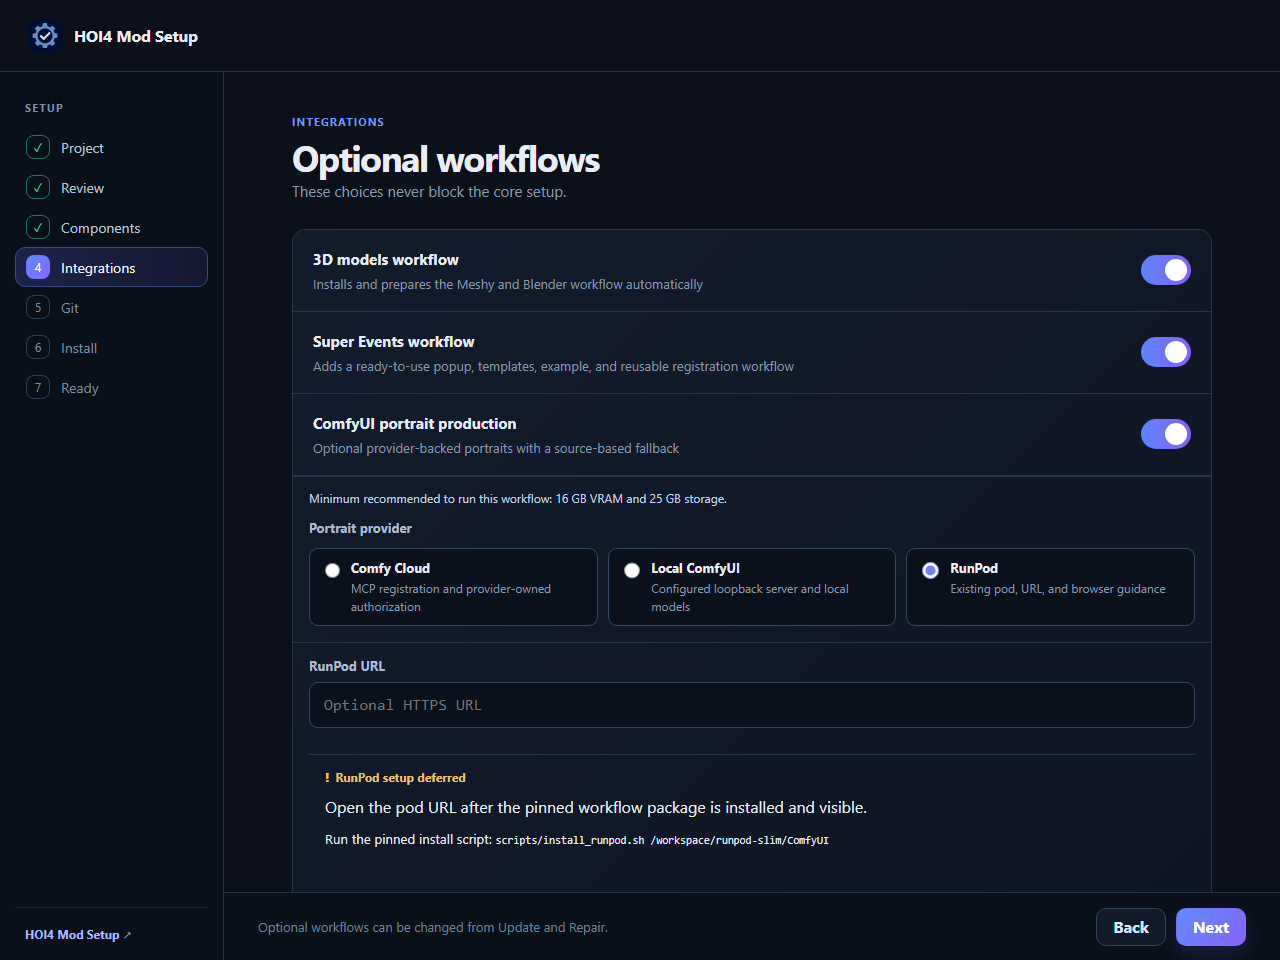
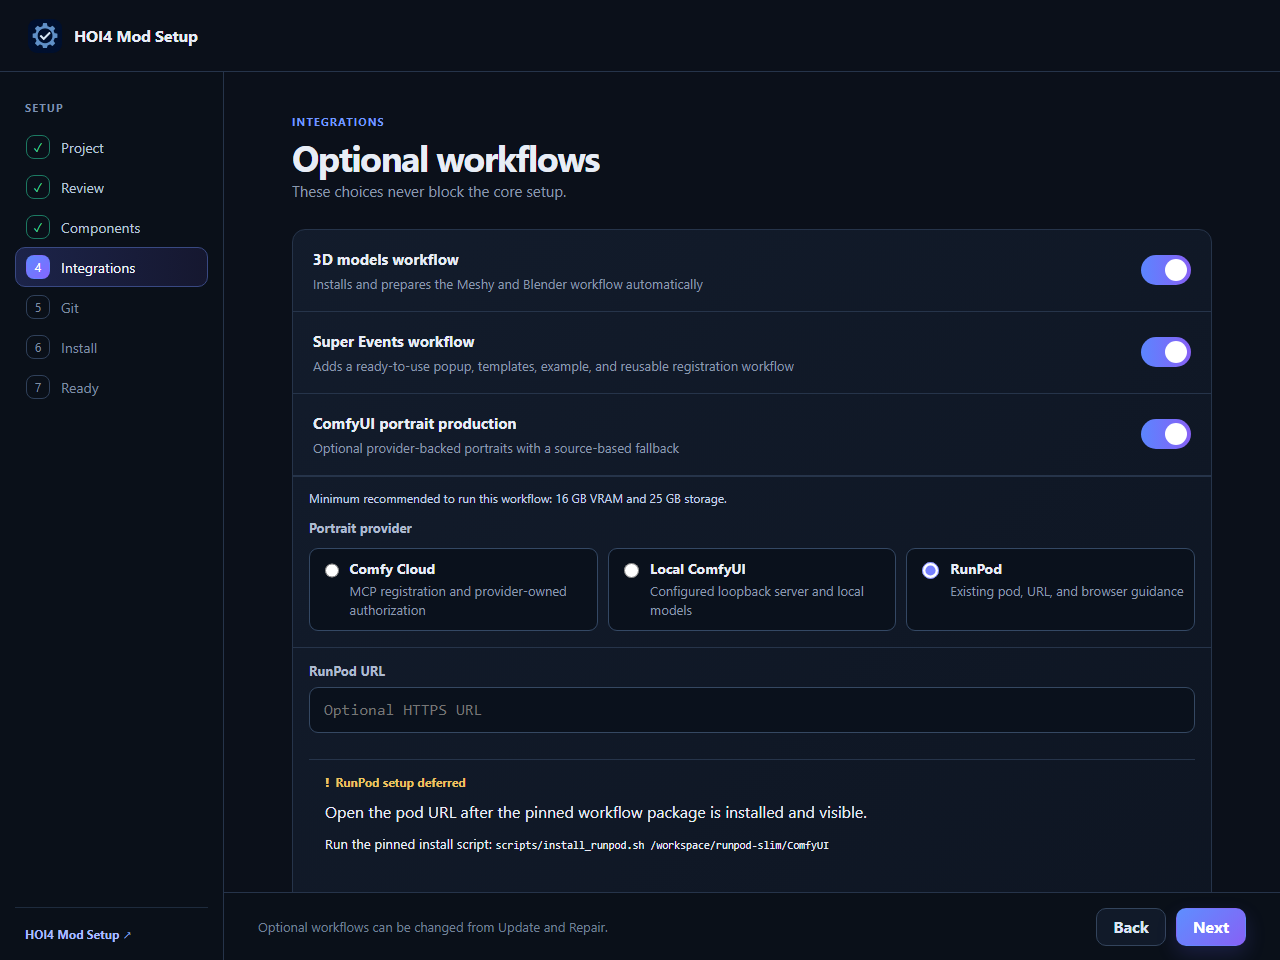
ui: larger list text, consistent MCP step width, no "0 files" for user-installed components

diff --git a/src/styles.css b/src/styles.css
@@ -90,7 +90,7 @@ button:focus-visible, input:focus-visible, textarea:focus-visible, select:focus-
 .choice-grid, .two-column, .action-grid, .recovery-grid, .diff-grid { display: grid; gap: 16px; }
 .choice-grid, .two-column { grid-template-columns: repeat(2, minmax(0, 1fr)); }
 .choice-grid, .two-column { width: 100%; max-width: 920px; margin-inline: auto; }
-.stack.narrow.mcp-review { max-width: 720px; }
+/* The MCP step uses the same column width as the other steps. */
 .diff-grid { grid-template-columns: repeat(3, minmax(0, 1fr)); }
 .action-grid { grid-template-columns: repeat(2, minmax(0, 1fr)); }
 .recovery-grid { grid-template-columns: repeat(3, minmax(0, 1fr)); }
@@ -178,9 +178,9 @@ button:focus-visible, input:focus-visible, textarea:focus-visible, select:focus-
 .list-row > div, .server-row > span:nth-child(2), .component-row > span:nth-child(2), .radio-row > span:nth-child(2), .finding-row > span:nth-child(2), .change-row > span:nth-child(2) { min-width: 0; flex: 1 1 12rem; display: grid; gap: 4px; overflow-wrap: anywhere; }
 .toggle-row > .toggle-copy { min-width: 0; display: grid; flex: 1 1 auto; gap: 6px; overflow-wrap: anywhere; }
 .toggle-row > span:last-child { margin-left: auto; flex: 0 0 auto; }
-.list-row strong, .server-row strong, .component-row strong, .radio-row strong, .finding-row strong, .change-row strong, .check-row strong { font-size: 13px; }
+.list-row strong, .server-row strong, .component-row strong, .radio-row strong, .finding-row strong, .change-row strong, .check-row strong { font-size: 14px; }
 .toggle-row strong { font-size: 15px; }
-.list-row span, .server-row small, .component-row small, .radio-row small, .finding-row small, .change-row small { color: var(--muted); font-size: 12px; }
+.list-row span, .server-row small, .component-row small, .radio-row small, .finding-row small, .change-row small { color: var(--muted); font-size: 13px; line-height: 1.45; }
 .toggle-row small { color: var(--muted); font-size: 13px; }
 .list-row > .status, .server-row > .status, .component-row > .size, .change-row > .size { margin-left: auto; }
 .mono { font-family: ui-monospace, SFMono-Regular, Consolas, monospace; }
@@ -194,7 +194,7 @@ button:focus-visible, input:focus-visible, textarea:focus-visible, select:focus-
 .status-muted { color: #99a7ba; }
 .details { color: #9db5ff; font-size: 12px; }
 details { border-top: 1px solid var(--line); }
-summary { padding: 13px 16px; color: #a3b0c3; font-size: 12px; list-style-position: inside; }
+summary { padding: 13px 16px; color: #a3b0c3; font-size: 13px; list-style-position: inside; }
 details p { margin: 0; padding: 0 16px 16px; line-height: 1.55; }
 .panel > details[open] > summary { margin-bottom: 10px; }
 .panel > details > .field { min-width: 0; margin: 0; padding: 0 16px 16px; }
@@ -305,8 +305,8 @@ details p { margin: 0; padding: 0 16px 16px; line-height: 1.55; }
 .coding-environment-option input { width: 17px; height: 17px; margin: 1px 0 0; accent-color: #7680ff; }
 .coding-environment-copy { min-width: 0; display: grid; gap: 5px; }
 .coding-environment-copy strong, .coding-environment-copy small { display: block; min-width: 0; overflow-wrap: anywhere; }
-.coding-environment-copy strong { color: #e6edf8; font-size: 13px; line-height: 1.35; }
-.coding-environment-copy small { color: var(--muted); font-size: 12px; line-height: 1.5; }
+.coding-environment-copy strong { color: #e6edf8; font-size: 14px; line-height: 1.35; }
+.coding-environment-copy small { color: var(--muted); font-size: 13px; line-height: 1.5; }
 .coding-environment-unavailable { margin-top: 12px; }
 .coding-environment-unavailable ul { margin: 8px 0 0; padding-left: 18px; display: grid; gap: 6px; font-size: 12px; line-height: 1.5; }
 .coding-environment-unavailable li strong { color: #e6edf8; }

diff --git a/src/App.tsx b/src/App.tsx
@@ -3121,6 +3121,8 @@ function formatFindingDetails(raw: string): string {
 
 function formatManifestSize(component: ManifestComponentPreview): string {
   const bytes = component.expected_files.reduce((total, file) => total + (file.size ?? 0), 0);
+  // A component without project files (an MCP server or tool installed for the user) is not "0 files".
+  if (component.expected_files.length === 0) return "Installed for your user";
   const size = bytes >= 1024 * 1024 ? `${(bytes / (1024 * 1024)).toFixed(1)} MB` : bytes >= 1024 ? `${Math.round(bytes / 1024)} KB` : bytes ? `${bytes} B` : "—";
   return `${component.expected_files.length === 1 ? "1 file" : `${component.expected_files.length} files`} · ${size}`;
 }

diff --git a/CHANGELOG.md b/CHANGELOG.md
@@ -7,6 +7,7 @@ HOI4 Mod Setup follows semantic versioning.
 - Redesign the Image generation step: one switch card for hoi4-imagegen with what it does at a glance, and the other backends as labelled tiles (with what each needs, such as an API key or a server address) and their limits behind "Use another backend". The leftover "Image providers loaded." line is gone.
 - Explain an "Access is denied" or "file in use" stop on the recovery screen: close the coding client or hoi4-imagegen window that holds the file, then continue. Undo changes alone did not help while that program stayed open.
 - Fix the step heading reserving a large empty gap above the content in narrow windows.
+- Make list and option text easier to read (13 to 14 px instead of 12 to 13 px), give the MCP step the same width as the other steps, and show a component installed for your user (such as the HOI4 Agent Tools server) as "Installed for your user" instead of "0 files".
 - Fix the Python hint on the recovery screen never showing for npm errors (a broken pattern in the check).
 - Fix an Update or repair that stopped with "Access is denied" when the previous hoi4-imagegen version could not be deleted because its program was still running (for example the sign-in the Ready screen started). Setup now keeps that version and reports it, and the next Update or Repair removes it.
 - Fix an intermittent Windows failure of Update and repair with "Access is denied (os error 5)" while the hoi4-imagegen files were checked. A virus scanner or indexer that had just seen a file could refuse a read-only open for a moment, so Setup now retries opening an existing file or folder up to seven times over about 6 seconds (Windows access, sharing and lock violations only; never creating, writing or deleting). A post-install error that carries no message of its own now names the component, and the hoi4-imagegen install check names the step, in the transaction journal.
